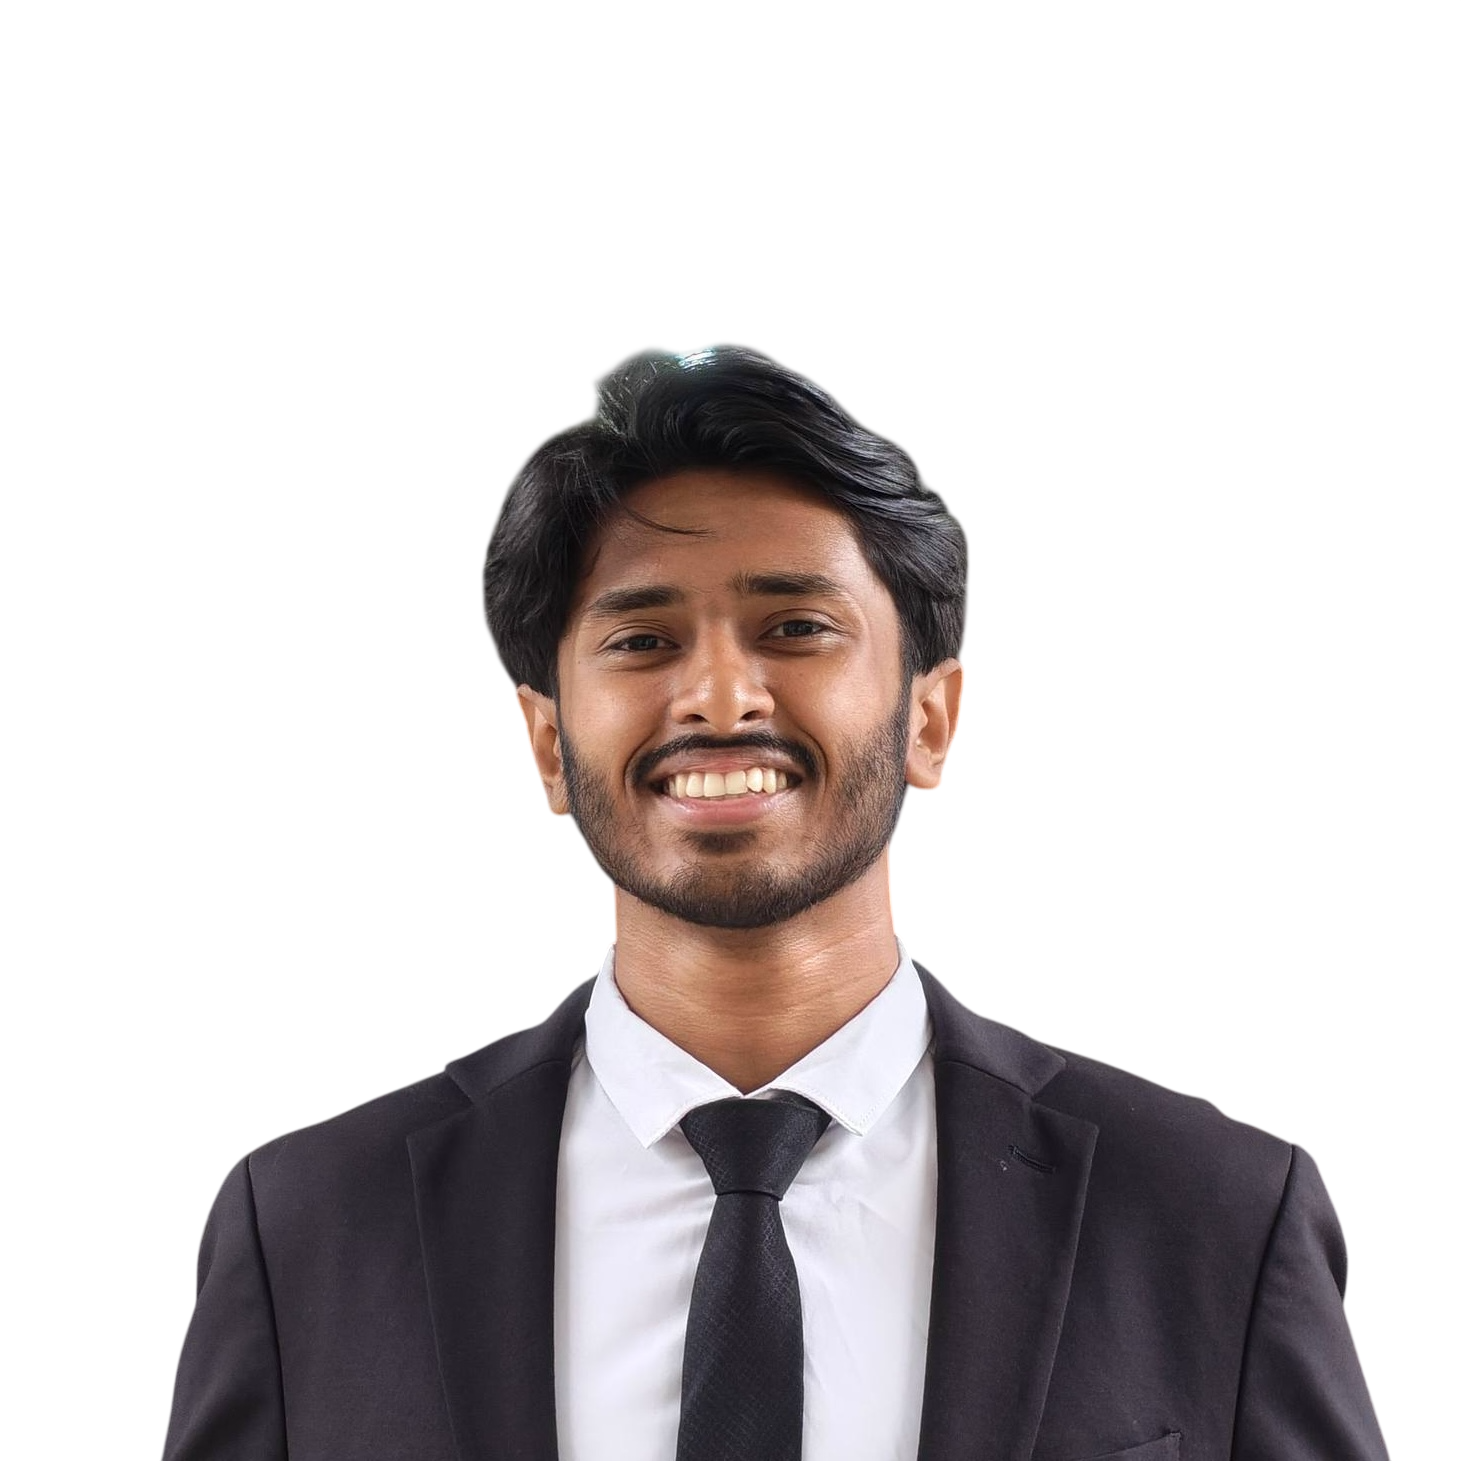
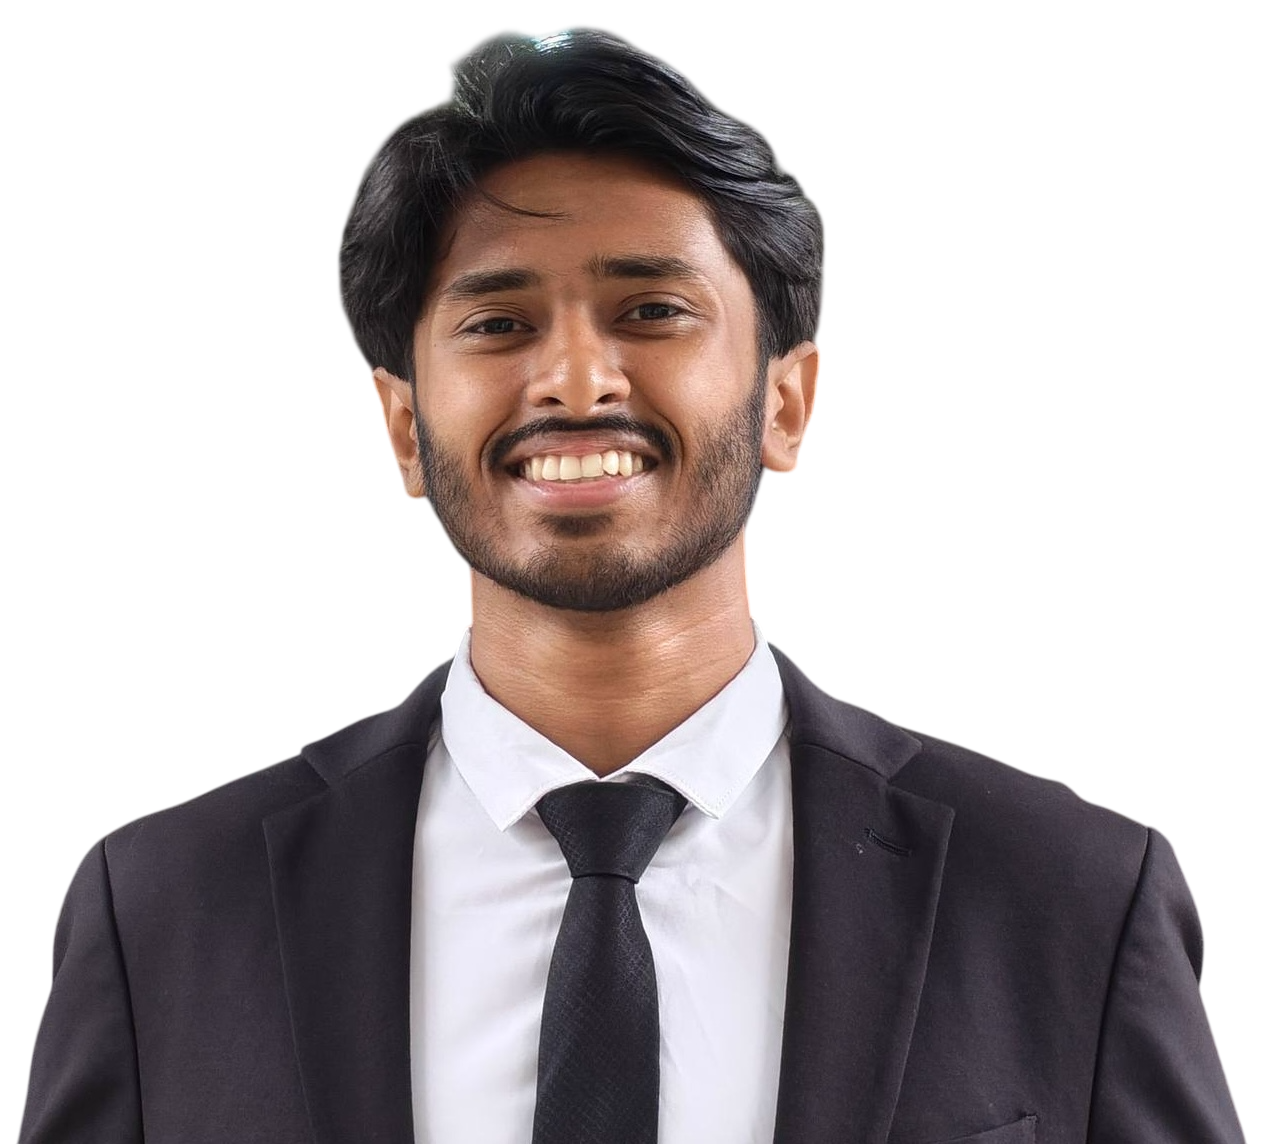
z

diff --git a/index.html b/index.html
@@ -13,12 +13,12 @@
   <meta property="og:title" content="Ali Mohsen Maruf — Geography, GIS &amp; Digital Products">
   <meta property="og:description" content="Geography and Environment student at Jahangirnagar University. Exploring GIS, spatial research, and education technology.">
   <meta property="og:url" content="https://alimohsenmaruf.com/">
-  <meta property="og:image" content="https://alimohsenmaruf.com/assets/images/avatar.png">
+  <meta property="og:image" content="https://alimohsenmaruf.com/assets/images/avatar.png?v=hero-2">
   <meta property="og:image:alt" content="Ali Mohsen Maruf, Geography and GIS student">
   <meta property="profile:first_name" content="Ali Mohsen">
   <meta property="profile:last_name" content="Maruf">
   <meta name="twitter:card" content="summary">
-  <meta name="twitter:image" content="https://alimohsenmaruf.com/assets/images/avatar.png">
+  <meta name="twitter:image" content="https://alimohsenmaruf.com/assets/images/avatar.png?v=hero-2">
   <meta name="twitter:image:alt" content="Ali Mohsen Maruf, Geography and GIS student">
   <meta name="twitter:title" content="Ali Mohsen Maruf — Geography, GIS &amp; Digital Products">
   <meta name="twitter:description" content="Geography and Environment student exploring GIS, spatial research, and education technology.">
@@ -27,8 +27,9 @@
   <link rel="alternate" type="text/plain" href="/llms.txt" title="AI-readable site summary">
   <link rel="preconnect" href="https://fonts.googleapis.com">
   <link rel="preconnect" href="https://fonts.gstatic.com" crossorigin>
+  <link rel="preload" as="image" href="./assets/images/avatar.png?v=hero-2" fetchpriority="high">
   <link href="https://fonts.googleapis.com/css2?family=DM+Sans:wght@400;500;600;700&family=Manrope:wght@400;500;600;700;800&display=swap" rel="stylesheet">
-  <link rel="stylesheet" href="./assets/css/style.css?v=20261119-redesign">
+  <link rel="stylesheet" href="./assets/css/style.css?v=20261119-portrait-2">
   <script type="application/ld+json">
   {
     "@context": "https://schema.org",
@@ -41,7 +42,7 @@
       "givenName": "Ali Mohsen",
       "familyName": "Maruf",
       "url": "https://alimohsenmaruf.com/",
-      "image": "https://alimohsenmaruf.com/assets/images/avatar.png",
+      "image": "https://alimohsenmaruf.com/assets/images/avatar.png?v=hero-2",
       "email": "mailto:ali.mohsen.maruf@gmail.com",
       "telephone": "+8801540553233",
       "description": "Geography and Environment undergraduate at Jahangirnagar University, exploring GIS, spatial research, and education technology.",
@@ -88,7 +89,7 @@
             <div class="hero-actions"><button class="button button-primary" data-jump="portfolio">Explore my work <span>↗</span></button><a class="button button-quiet" href="mailto:ali.mohsen.maruf@gmail.com">Say hello <span>↗</span></a></div>
             <div class="hero-meta"><span>BASED IN BANGLADESH</span><span>23°52′N 90°16′E</span></div>
           </div>
-          <div class="portrait-panel panel"><div class="portrait-top"><span>FIELD NOTES / 01</span><span>24° — 26° N</span></div><div class="portrait-orbit orbit-one"></div><div class="portrait-orbit orbit-two"></div><img src="./assets/images/avatar.png" alt="Ali Mohsen Maruf, Geography and GIS student" width="1461" height="1461" fetchpriority="high"><div class="portrait-caption"><span class="caption-index">01</span><span>Curious about the<br>world and how it works.</span><span class="caption-arrow">↗</span></div></div>
+          <div class="portrait-panel panel"><div class="portrait-top"><span>FIELD NOTES / 01</span><span>24° — 26° N</span></div><div class="portrait-orbit orbit-one"></div><div class="portrait-orbit orbit-two"></div><img src="./assets/images/avatar.png?v=hero-2" alt="Ali Mohsen Maruf, Geography and GIS student" width="1264" height="1144" fetchpriority="high" decoding="async"><div class="portrait-caption"><span class="caption-index">01</span><span>Curious about the<br>world and how it works.</span><span class="caption-arrow">↗</span></div></div>
           <a class="bento-card focus-card" href="https://scholarships.amarapply.com" target="_blank" rel="noopener"><span class="card-index">01 / CURRENT FOCUS</span><span class="focus-icon">↗</span><strong>AmarApply</strong><span>Scholarship intelligence, built around people.</span><span class="card-link">VISIT PROJECT <b>↗</b></span></a>
           <div class="bento-card location-card"><span class="card-index">FIELD / HOME</span><div class="map-art" aria-hidden="true"><span class="map-contour contour-a"></span><span class="map-contour contour-b"></span><span class="map-contour contour-c"></span><span class="map-pin">●</span><span class="map-label">SAVAR<br><small>BANGLADESH</small></span></div><div class="location-foot"><strong>Grounded in place.</strong><span>Always learning from it.</span></div></div>
           <div class="bento-card disciplines-card"><span class="card-index">A FEW THINGS I DO</span><div class="discipline"><span>01</span><strong>Spatial analysis</strong><i>↗</i></div><div class="discipline"><span>02</span><strong>Education technology</strong><i>↗</i></div><div class="discipline"><span>03</span><strong>Research &amp; mapping</strong><i>↗</i></div></div>
@@ -108,6 +109,6 @@
     </main>
     <footer class="site-footer"><a href="#about">ALI MOHSEN MARUF <span>© 2026</span></a><span>MADE WITH CURIOSITY IN BANGLADESH</span><div><a href="mailto:ali.mohsen.maruf@gmail.com" aria-label="Email">EMAIL ↗</a><a href="https://wa.me/8801540553233" target="_blank" rel="noopener">WHATSAPP ↗</a></div></footer>
   </div>
-  <script src="./assets/js/script.js?v=20261119-redesign"></script>
+  <script src="./assets/js/script.js?v=20261119-portrait-2"></script>
 </body>
 </html>

diff --git a/assets/css/style.css b/assets/css/style.css
@@ -9,3 +9,29 @@
 .navbar-link{display:inline-flex;align-items:center;justify-content:center}
 article{display:block;scroll-margin-top:90px}
 article.active{display:block}
+
+.portrait-panel img{
+  width:100%;
+  height:calc(100% - 72px);
+  left:0;
+  bottom:66px;
+  object-fit:cover;
+  object-position:center bottom;
+  opacity:1;
+  transform:none;
+}
+.portrait-panel img.is-loading{
+  opacity:0;
+  transform:translateY(24px) scale(.97);
+}
+.portrait-panel img.is-visible{
+  animation:portrait-arrive .85s cubic-bezier(.2,.75,.25,1) both;
+}
+@keyframes portrait-arrive{
+  from{opacity:0;transform:translateY(24px) scale(.97);filter:blur(5px)}
+  to{opacity:1;transform:translateY(0) scale(1);filter:drop-shadow(0 18px 18px #47584c25)}
+}
+@media(max-width:600px){
+  .portrait-panel img{height:calc(100% - 58px);bottom:52px;object-position:center bottom}
+}
+@media(prefers-reduced-motion:reduce){.portrait-panel img,.portrait-panel img.is-visible{animation:none;opacity:1;transform:none}}

diff --git a/assets/js/script.js b/assets/js/script.js
@@ -1,5 +1,17 @@
 'use strict';
 
+const portrait = document.querySelector('.portrait-panel img');
+if (portrait) {
+  portrait.classList.add('is-loading');
+  const revealPortrait = () => {
+    portrait.classList.remove('is-loading');
+    portrait.classList.add('is-visible');
+  };
+  if (portrait.complete && portrait.naturalWidth > 0) revealPortrait();
+  else portrait.addEventListener('load', revealPortrait, { once: true });
+  portrait.addEventListener('error', () => portrait.classList.remove('is-loading'), { once: true });
+}
+
 document.querySelectorAll('[data-jump]').forEach((control) => {
   control.addEventListener('click', () => {
     const target = document.getElementById(control.dataset.jump);
